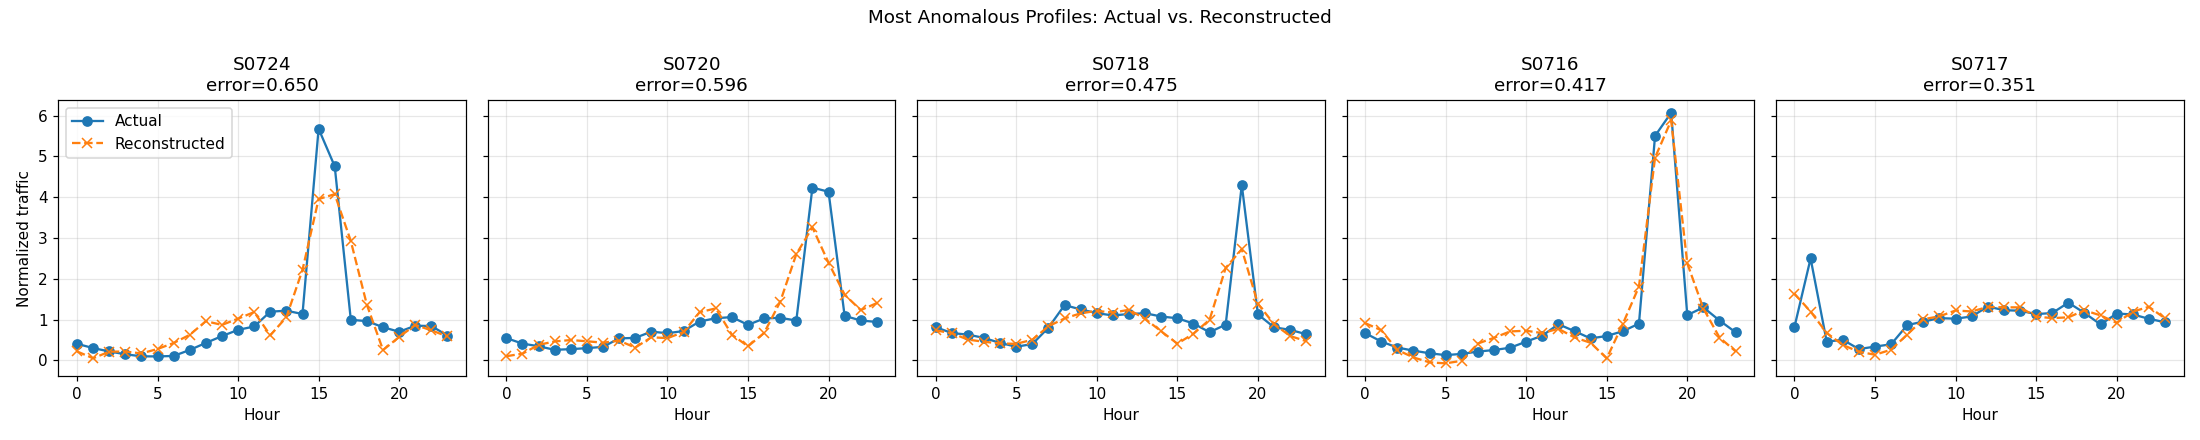
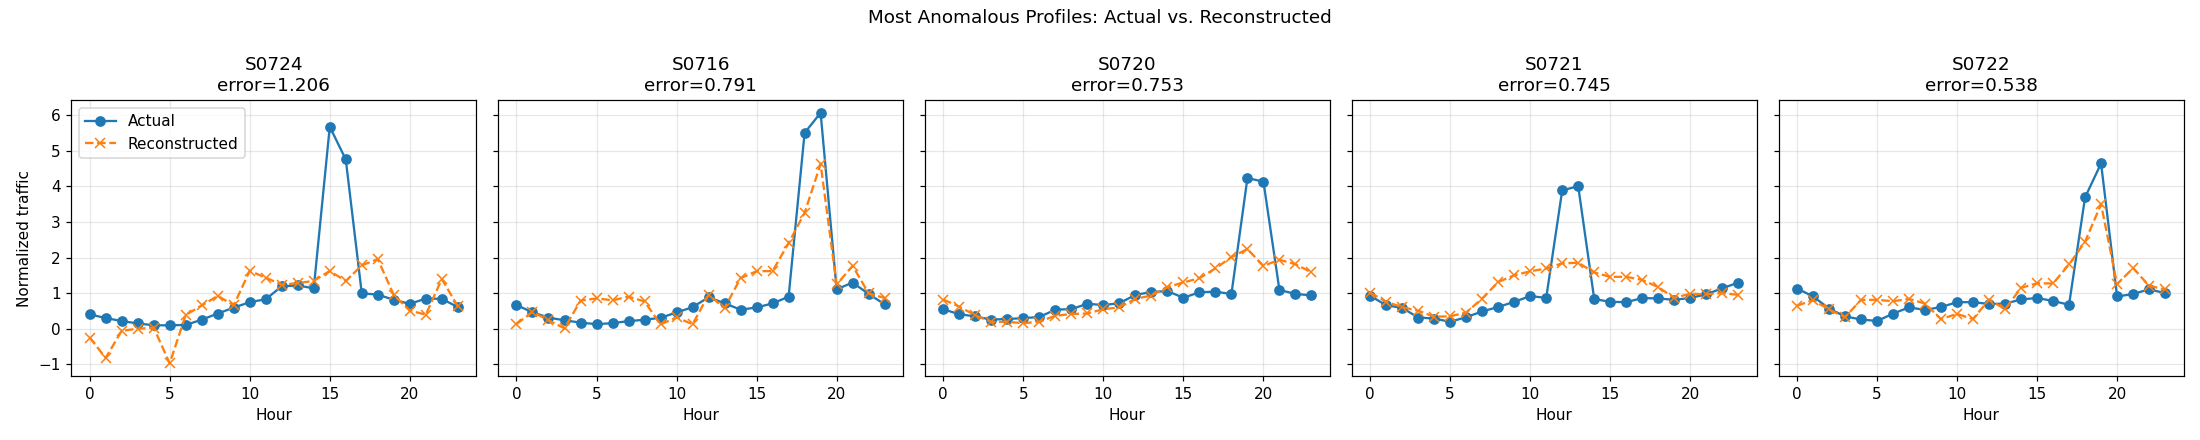
Merge re-identified real dataset into the synthetic pipeline
Real site profiles are merged alongside the synthetic ones, with
site identifiers replaced by the same S#### scheme used for the
synthetic data (approved for publication with anonymized IDs).
Traffic values are otherwise untouched. Ground-truth labels remain
scoped to the synthetic subset only, so evaluation metrics report
against that subset while the real subset flows through detection
unlabeled. README, conclusions, and cached artifacts updated with
results from the full 1,486-row merged dataset.

diff --git a/README.md b/README.md
@@ -2,7 +2,7 @@
 
 Detects 24-hour base-station traffic profiles that deviate from "normal" behavior, using reconstruction error from a dense autoencoder as the anomaly score.
 
-> **Note on data:** the original analysis was run on a confidential telecom dataset, which cannot be published. This repo uses a **synthetic dataset instead** — generated to match the aggregate per-hour statistics of the original (mean/std of log-traffic and an hour-to-hour correlation structure), with a small set of labeled anomalies (outages, spikes, phase shifts, inversions) injected on top. No real site-level data is included anywhere in this repo or its history. The synthetic version has one advantage the original didn't: ground-truth labels, which allow the pipeline below to be evaluated quantitatively.
+> **Note on data:** the original analysis was run on a confidential telecom dataset. The dataset used here merges a **synthetic dataset** — generated to match the aggregate per-hour statistics of the original (mean/std of log-traffic and an hour-to-hour correlation structure), with labeled anomalies (outages, spikes, phase shifts, inversions) injected on top — with the original real profiles, which are included with their site identifiers replaced by the same anonymized `S####` scheme (approved for publication by the data owner). Only the identifiers were changed; only the synthetic portion carries ground-truth anomaly labels, since that's the only part where the "true" answer is known by construction.
 
 ## Problem
 
@@ -10,31 +10,31 @@ A telecom network exposes hourly traffic volume for base stations, each summariz
 
 ## Approach
 
-1. **Generate** a synthetic dataset (743 stations) calibrated to the real data's aggregate per-hour statistics, with ~5% labeled anomalies injected (outage / spike / phase-shift / inversion).
+1. **Generate** a synthetic dataset (743 stations) calibrated to the real data's aggregate per-hour statistics, with ~5% labeled anomalies injected (outage / spike / phase-shift / inversion), then **merge** in the real (re-identified) profiles — 1,486 stations total.
 2. **Normalize** each profile by its own daily mean, so the model learns hourly *shape* rather than absolute traffic volume.
 3. **Split** into train/validation (80/20) and run a **grid search** over 6 encoder architectures × 2 learning rates × 3 random seeds, selecting the combination with the lowest mean validation MSE.
 4. **Retrain** the selected architecture with early stopping; cache the trained weights and training history to disk so the notebook doesn't retrain on every run.
 5. **Score** every station by reconstruction error (RMSE between actual and reconstructed profile) and **threshold** at the 95th percentile of the training-set error distribution.
-6. **Validate** both visually (actual vs. reconstructed curves) and quantitatively — precision, recall, F1, ROC-AUC, and per-anomaly-type recall against the injected ground truth.
+6. **Validate** both visually (actual vs. reconstructed curves) and quantitatively — precision, recall, F1, ROC-AUC, and per-anomaly-type recall against the injected ground truth (synthetic subset only, since that's the only subset with known labels).
 
 ## Results
 
-- Selected architecture: `24 → 8 → 24` (single 8-unit bottleneck), learning rate 1e-3, mean validation MSE ≈ 0.0148 (averaged over 3 seeds).
-- **40 of 743 stations (5.4%)** flagged as anomalous at the 95th-percentile threshold (0.140).
-- Against the injected ground truth: **precision 0.68, recall 0.71, F1 0.69, ROC-AUC 0.94**.
-- Recall by injected anomaly type: spike 1.00, outage 0.70, phase-shift 0.60, inversion 0.50 — sudden bursts are caught almost every time, while a fully inverted daily cycle (same energy, opposite shape) is the hardest case, as expected for a reconstruction-error-based detector.
+- Selected architecture: `24 → 8 → 24` (single 8-unit bottleneck), learning rate 5e-4, mean validation MSE ≈ 0.0137 (averaged over 3 seeds).
+- **75 of 1,486 stations (5.0%)** flagged as anomalous at the 95th-percentile threshold (0.204) — 51/743 among the synthetic subset, 24/743 among the real subset.
+- Against the injected ground truth (synthetic subset only): **precision 0.71, recall 0.95, F1 0.81, ROC-AUC 0.99**.
+- Recall by injected anomaly type: spike 1.00, phase-shift 1.00, inversion 1.00, outage 0.80 — nearly every injected anomaly type is caught at this threshold.
 
 ![Actual vs. reconstructed traffic profiles for the 5 most anomalous stations](images/reconstruction_anomalous.png)
 
-*The 5 highest-error stations — mostly injected spikes — where the model's reconstruction (orange) is visibly damped relative to the actual spike (blue).*
+*The 5 highest-error stations (all from the synthetic/injected-spike subset) — the model's reconstruction (orange) is visibly damped relative to the actual spike (blue).*
 
 ![Actual vs. reconstructed traffic profiles for the 5 most typical stations](images/reconstruction_typical.png)
 
-*For contrast, the 5 lowest-error stations: reconstruction tracks the actual profile almost exactly.*
+*For contrast, the 5 lowest-error stations (all from the real subset): reconstruction tracks the actual profile almost exactly.*
 
 ![ROC curve for reconstruction error as an anomaly score](images/roc_curve.png)
 
-*ROC-AUC of 0.94 — reconstruction error is a strong ranking signal for the injected anomalies, well above chance.*
+*ROC-AUC of 0.99 on the labeled (synthetic) subset — reconstruction error is a strong ranking signal for the injected anomalies, well above chance.*
 
 ## Repo structure
 
@@ -56,14 +56,15 @@ pip install -r requirements.txt
 jupyter notebook SDA.ipynb
 ```
 
-Run all cells top to bottom. The dataset is generated in-notebook (no external file needed). The architecture search and final model training are cached to disk (`tuning_results.csv`, `sda_autoencoder.keras`, `sda_training_history.pkl`) — delete those files, or set the `FORCE_RETRAIN_*` flags near the top of their respective cells to `True`, to reproduce the search/training from scratch (~10–15 min on CPU).
+Run all cells top to bottom. The synthetic portion of the dataset is generated in-notebook; the real (re-identified) portion is loaded from a local `dataset.xlsx` if present, and the notebook falls back to synthetic-only data automatically if that file is absent — so the headline numbers above (1,486 rows) reflect the full merged dataset, while a from-scratch run without `dataset.xlsx` will reproduce the same methodology on 743 synthetic rows only, with different specific numbers. The architecture search and final model training are cached to disk (`tuning_results.csv`, `sda_autoencoder.keras`, `sda_training_history.pkl`) — delete those files, or set the `FORCE_RETRAIN_*` flags near the top of their respective cells to `True`, to reproduce the search/training from scratch (~10–15 min on CPU).
 
 ## Limitations & next steps
 
-- This is a synthetic stand-in for the confidential original dataset. The generator matches the *aggregate* per-hour statistics of the real data, but the injected anomaly types are a designer's guess at what real anomalies look like — real-world anomalies may differ, so the precision/recall numbers above validate the *methodology*, not a guarantee of production performance.
+- Ground-truth labels only exist for the synthetic subset, so precision/recall/F1/ROC-AUC above are computed on that subset only — the real subset's flagged stations (24/743) have no way to be checked against a known answer here.
+- The injected anomaly types are a designer's guess at what real anomalies look like; real-world anomalies may take different or subtler forms than outage/spike/phase-shift/inversion.
 - The threshold is a single global percentile; it doesn't account for stations whose normal behavior is inherently more variable than others.
 - Each day is scored independently; there's no use of history, so a station that is *consistently* unusual every day looks identical to a one-off event.
-- Next: benchmark against a simpler baseline (PCA reconstruction error or per-hour z-scores) to quantify what the autoencoder specifically adds; extend to sequence models (e.g. LSTM autoencoder) if multi-day data becomes available; revisit the injected anomaly taxonomy against real incident/outage records once deployed on real traffic.
+- Next: benchmark against a simpler baseline (PCA reconstruction error or per-hour z-scores); extend to sequence models (e.g. LSTM autoencoder) if multi-day data becomes available; cross-check the 24 flagged real stations against actual incident/outage records if any exist.
 
 ## Tech stack
 
